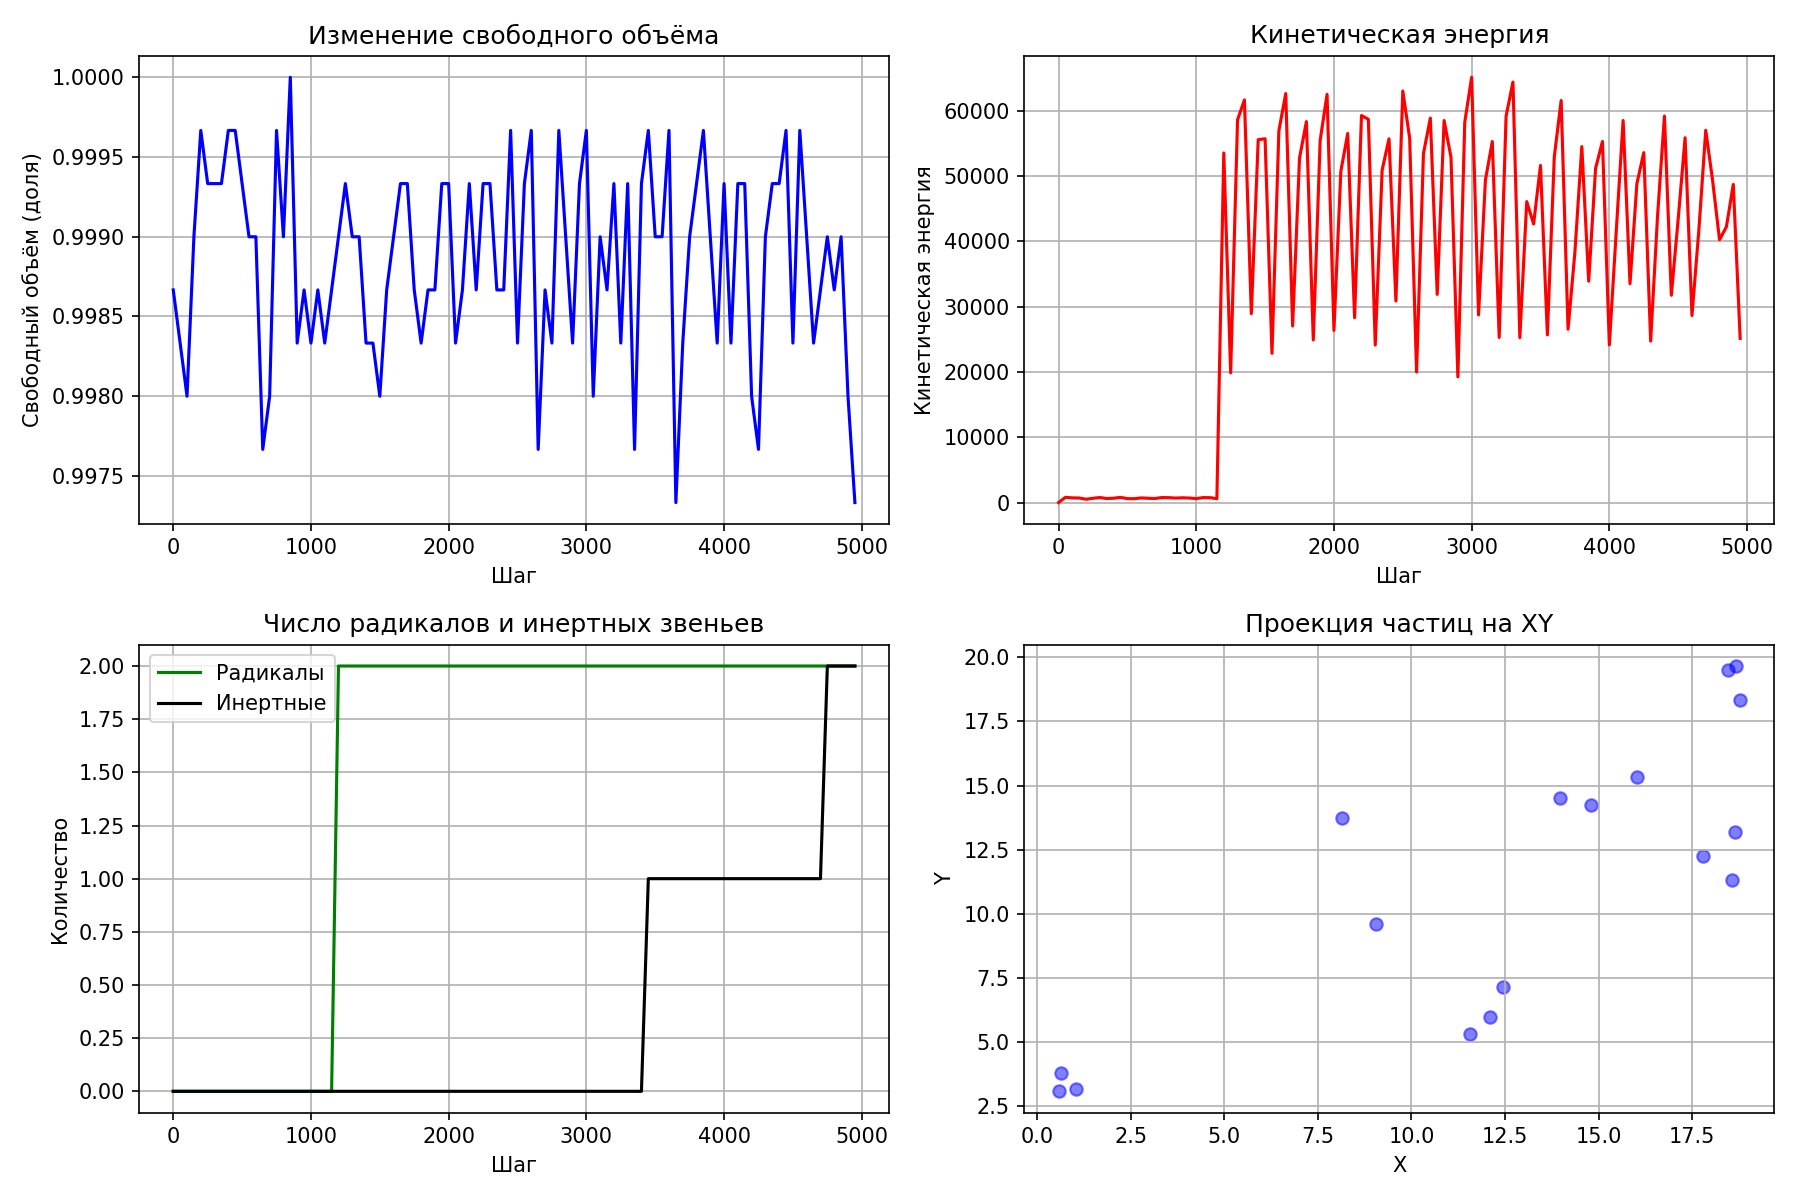
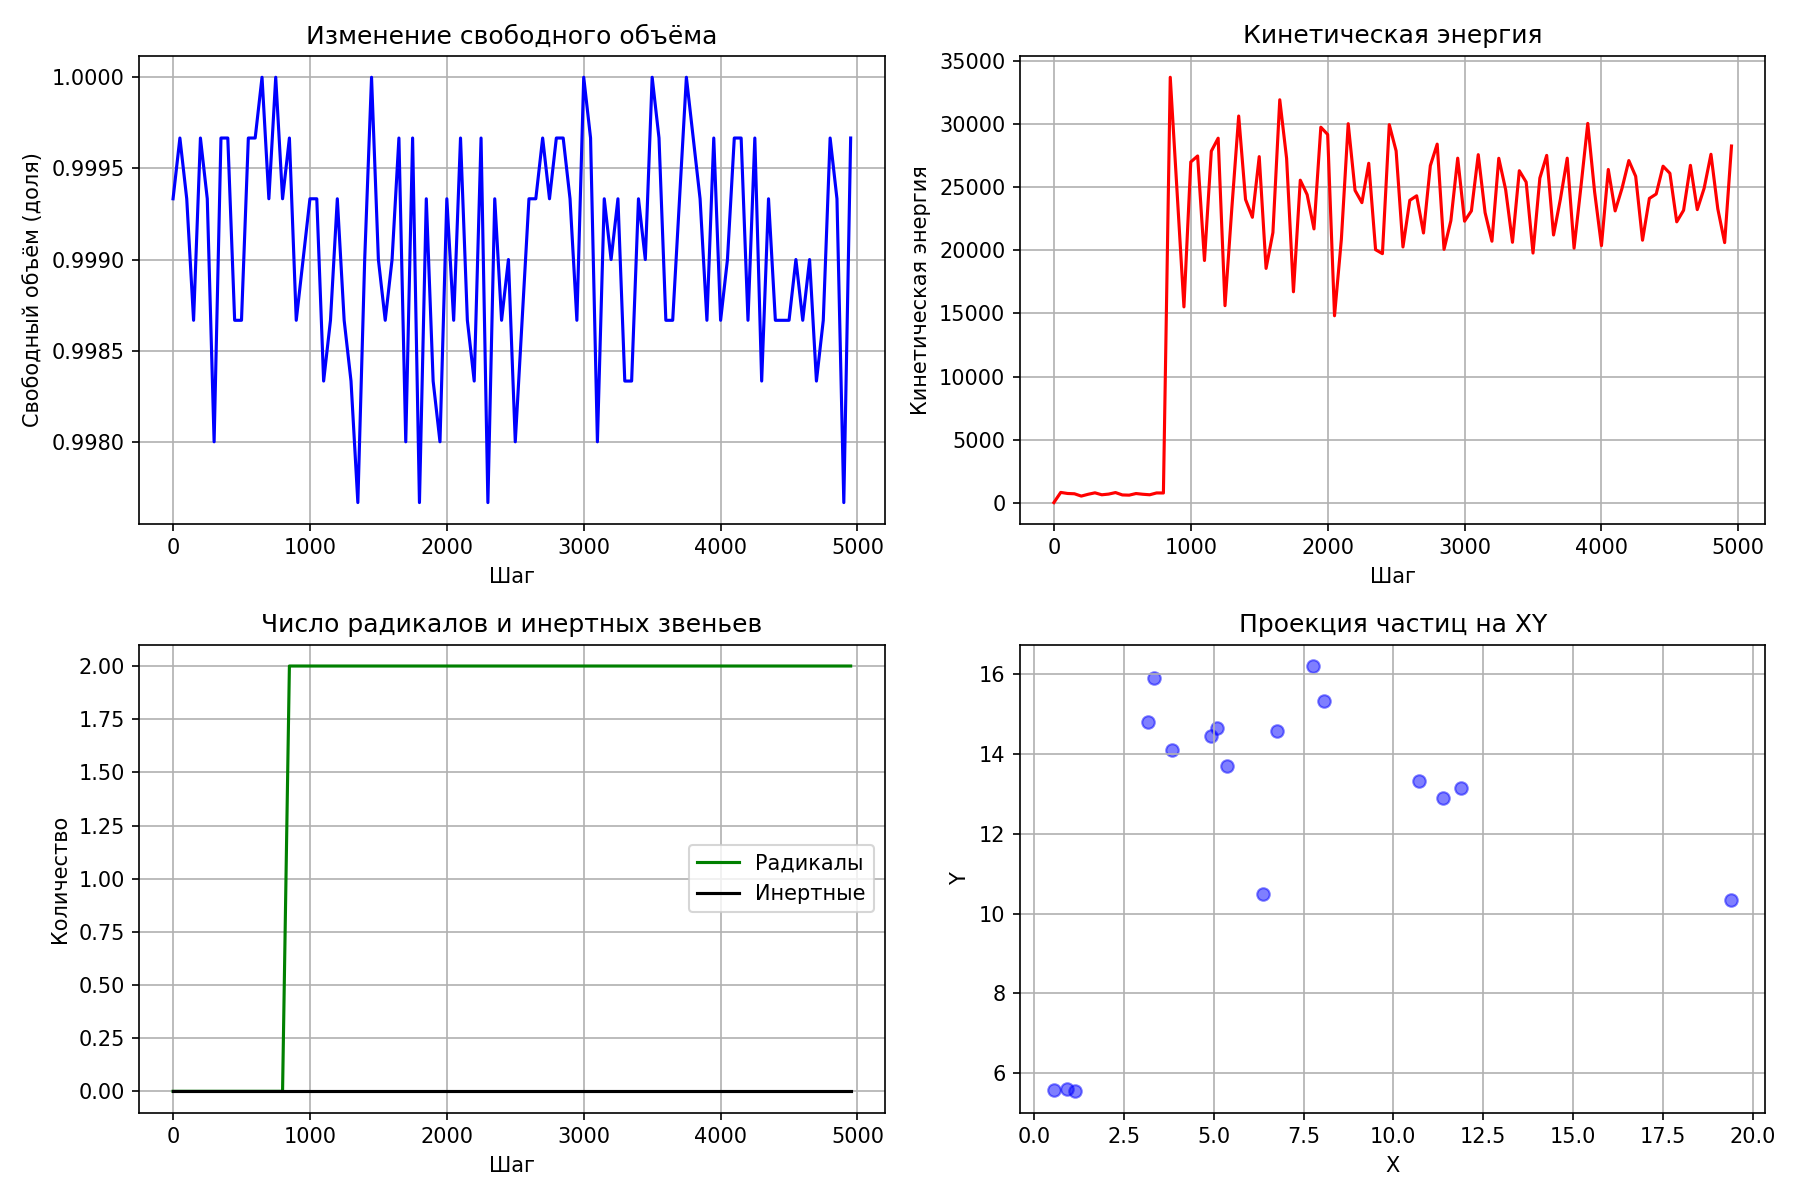
Hybrid model of block polymerization of multifunctional monomers

diff --git a/examples/test_100_monomers.py b/examples/test_100_monomers.py
@@ -1,0 +1,198 @@
+import sys
+from pathlib import Path
+root_dir = str(Path(__file__).parent.parent)
+sys.path.insert(0, root_dir)
+
+import numpy as np
+import matplotlib.pyplot as plt
+import time
+from polynetsim.core.particle import Particle, ParticleType
+from polynetsim.core.reactor import Reactor, ReactorConfig
+from polynetsim.analysis.free_volume import FreeVolumeAnalyzer
+
+def create_triple_monomer(center, chain_id, orientation='x'):
+    """Создаёт мономер из трёх частиц: остов и две винильные группы."""
+    d = 0.5  # расстояние в единицах σ
+    if orientation == 'x':
+        pos0 = center
+        pos1 = center + np.array([ d, 0, 0])
+        pos2 = center + np.array([-d, 0, 0])
+    else:
+        pos0 = center
+        pos1 = center + np.array([0, d, 0])
+        pos2 = center + np.array([0,-d, 0])
+    particles = [
+        Particle(id=0, ptype=ParticleType.SIM_BACKBONE, position=pos0,
+                 radius=0.3, mass=1.0, chain_id=chain_id, is_free=True),
+        Particle(id=1, ptype=ParticleType.SIM_VINYL,   position=pos1,
+                 radius=0.3, mass=1.0, chain_id=chain_id, is_free=True),
+        Particle(id=2, ptype=ParticleType.SIM_VINYL,   position=pos2,
+                 radius=0.3, mass=1.0, chain_id=chain_id, is_free=True),
+    ]
+    bonds = [(0,1), (0,2)]
+    return particles, bonds
+
+def main():
+    start_time = time.time()
+    
+    # Размер реактора для объёмной доли ~0.4 (расчёт ниже)
+    # Объём одной частицы: 4/3*pi*0.3^3 ≈ 0.113
+    # Всего частиц: 100 мономеров * 3 + 1 инициатор = 301
+    # Суммарный объём частиц: 301 * 0.113 ≈ 34.0
+    # При объёмной доле 0.4 объём реактора должен быть 34/0.4 = 85
+    # Сторона куба: 85^(1/3) ≈ 4.4
+    n_monomers = 50
+    box_size = (((n_monomers*3 + 1) *0.113) / 0.4)**(1/3)  #4.4
+    print("box_size = ", box_size)
+    config = ReactorConfig(size=(box_size, box_size, box_size), temperature=1.0)
+    
+    # Параметры
+    config.params.lj.epsilon = 0.00      # слабое притяжение/отталкивание
+    config.params.lj.sigma = 0.3          # эффективный диаметр
+    config.params.bond.stiffness = 5000.0
+    config.params.bond.length = 0.5
+    config.params.reaction.k_initiation = 10.0   # чтобы быстро инициировать
+    config.params.reaction.k_propagation = 10.0
+    config.params.reaction.reaction_radius = 0.8
+    
+    reactor = Reactor(config)
+    
+    # Добавляем инициатор
+    init = Particle(id=0, ptype=ParticleType.INITIATOR,
+                    position=[box_size/2, box_size/2, box_size/2],
+                    velocity=np.zeros(3), mass=1.0, radius=0.3,
+                    chain_id=-1, is_free=False)
+    reactor.add_particle(init)
+    
+    # Создаём 100 мономеров, размещаем их случайно в реакторе
+    np.random.seed(42)
+    
+    next_id = 1
+    next_chain = 1
+    for _ in range(n_monomers):
+        center = np.random.uniform(0, box_size, 3)
+        parts, bonds = create_triple_monomer(center, next_chain, orientation='x')
+        for p in parts:
+            p.id = next_id
+            reactor.add_particle(p)
+            next_id += 1
+        # Добавляем внутримолекулярные связи
+        gi = next_id - 3
+        gj1 = next_id - 2
+        gj2 = next_id - 1
+        reactor.bonds.append((gi, gj1))
+        reactor.bonds.append((gi, gj2))
+        if gi < gj1:
+            reactor.bond_set.add((gi, gj1))
+        else:
+            reactor.bond_set.add((gj1, gi))
+        if gi < gj2:
+            reactor.bond_set.add((gi, gj2))
+        else:
+            reactor.bond_set.add((gj2, gi))
+        reactor.particles[gi].bonded_to.extend([gj1, gj2])
+        reactor.particles[gj1].bonded_to.append(gi)
+        reactor.particles[gj2].bonded_to.append(gi)
+        next_chain += 1
+    
+    print(f"Всего частиц: {len(reactor.particles)}")
+    print(f"Размер реактора: {box_size:.2f}^3")
+    print(f"Объёмная доля частиц (оценка): {len(reactor.particles)*0.113/box_size**3:.3f}")
+    
+    # Инициализация анализатора
+    fv_analyzer = FreeVolumeAnalyzer(probe_radius=0.2)
+    
+    # Параметры интегрирования
+    dt = 0.0002
+    steps = 10000
+    record_interval = 50 
+    gamma = 0.05   # слабый термостат
+    
+    # Сбор данных
+    steps_recorded = []
+    free_volume_values = []
+    kinetic_energy_values = []
+    n_radicals = []
+    n_inert = []
+    n_reactions = 0
+    
+    print("Запуск моделирования...")
+    loop_start = time.time()
+    for step in range(steps):
+        reactor.velocity_verlet_step(dt, gamma=gamma)
+        reactor.react(dt)
+        
+        if step % record_interval == 0:
+            # Статистика
+            ke = 0.5 * sum(p.mass * np.dot(p.velocity, p.velocity) for p in reactor.particles)
+            pe = 0.0
+            for i, j in reactor.bonds:
+                delta = reactor.particles[i].position - reactor.particles[j].position
+                r = np.linalg.norm(delta)
+                pe += 0.5 * config.params.bond.stiffness * (r - config.params.bond.length)**2
+            total = ke + pe
+            n_rad = sum(1 for p in reactor.particles if p.ptype in (ParticleType.SIM_RADICAL, ParticleType.SIM_RADICAL_SLOW))
+            n_in = sum(1 for p in reactor.particles if p.ptype == ParticleType.SIM_INERT)
+            n_vinyl = sum(1 for p in reactor.particles if p.ptype == ParticleType.SIM_VINYL)
+            n_init = sum(1 for p in reactor.particles if p.ptype == ParticleType.INITIATOR)
+            fv = fv_analyzer.geometric_free_volume(reactor, n_samples=3000)
+            
+            steps_recorded.append(step)
+            free_volume_values.append(fv)
+            kinetic_energy_values.append(ke)
+            n_radicals.append(n_rad)
+            n_inert.append(n_in)
+            
+            print(f"Шаг {step}: KE={ke:.1f}, PE={pe:.1f}, E={total:.1f}, "
+                  f"иниц={n_init}, рад={n_rad}, винил={n_vinyl}, инерт={n_in}, FV={fv:.4f}")
+    
+    loop_end = time.time()
+    print(f"Моделирование завершено за {loop_end - loop_start:.2f} с")
+    print(f"Всего шагов: {steps}")
+    print(f"Произошло реакций: {n_reactions} (не отслеживалось точно, смотри вывод выше)")
+    
+    # Построение графиков
+    plt.figure(figsize=(12, 10))
+    
+    plt.subplot(2,2,1)
+    plt.plot(steps_recorded, free_volume_values, 'b-')
+    plt.xlabel('Шаг')
+    plt.ylabel('Свободный объём (доля)')
+    plt.title('Изменение свободного объёма')
+    plt.grid(True)
+    
+    plt.subplot(2,2,2)
+    plt.plot(steps_recorded, kinetic_energy_values, 'r-')
+    plt.xlabel('Шаг')
+    plt.ylabel('Кинетическая энергия')
+    plt.title('Кинетическая энергия')
+    plt.grid(True)
+    
+    plt.subplot(2,2,3)
+    plt.plot(steps_recorded, n_radicals, 'g-', label='Радикалы')
+    plt.plot(steps_recorded, n_inert, 'k-', label='Инертные')
+    plt.xlabel('Шаг')
+    plt.ylabel('Количество')
+    plt.title('Число радикалов и инертных звеньев')
+    plt.legend()
+    plt.grid(True)
+    
+    plt.subplot(2,2,4)
+    # Проекция частиц на XY
+    xs = [p.position[0] for p in reactor.particles]
+    ys = [p.position[1] for p in reactor.particles]
+    plt.scatter(xs, ys, c='blue', alpha=0.5, s=10)
+    plt.xlabel('X')
+    plt.ylabel('Y')
+    plt.title('Проекция частиц на XY')
+    plt.grid(True)
+    
+    plt.tight_layout()
+    plt.savefig('test_100_monomers.png', dpi=150)
+    plt.show()
+    
+    total_time = time.time() - start_time
+    print(f"Общее время выполнения: {total_time:.2f} с")
+
+if __name__ == "__main__":
+    main()

diff --git a/polynetsim/core/reactor.py b/polynetsim/core/reactor.py
@@ -257,11 +257,11 @@ class Reactor:
         n_init = try_initiation(self, dt)
         if n_init > 0:
             print(f"Произошло {n_init} актов инициирования")
-            self.relax(steps=10000, dt=dt*0.1, gamma=0.5)  # усиленная релаксация
+            self.relax(steps=2500, dt=dt*0.1, gamma=0.5)  # усиленная релаксация
         n_prop = try_propagation(self, dt)
         if n_prop > 0:
             print(f"Произошло {n_prop} реакций роста")
-            self.relax(steps=10000, dt=dt*0.1, gamma=0.5)
+            self.relax(steps=2500, dt=dt*0.1, gamma=0.5)
 
     def plot(self, step=None, show_connections=True, save_path=None):
         """
